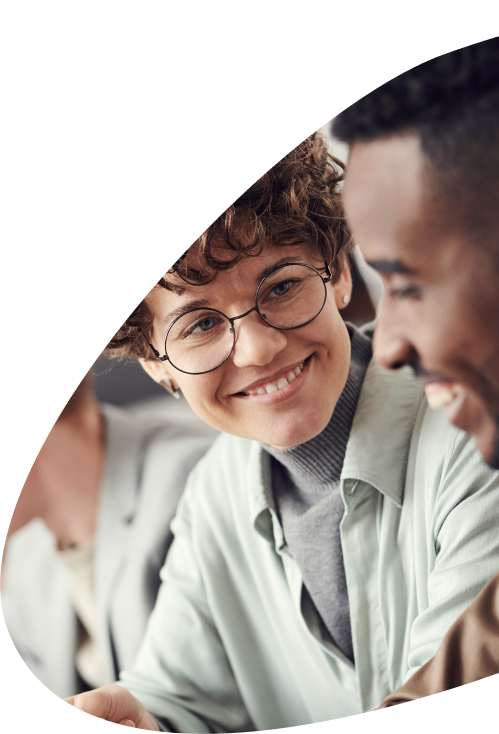
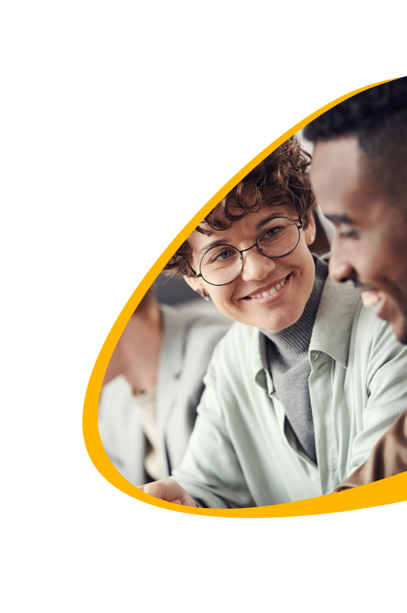
added some images and made the final changes

diff --git a/app/scss/layouts/_hero.scss b/app/scss/layouts/_hero.scss
@@ -1,7 +1,11 @@
 @use 'abstracts' as *;
 
 .hero {
-  height: rem(700);
+  height: rem(890);
+
+  @include desktop {
+    height: rem(700);
+  }
 
   .d-grid {
     height: 100%;
@@ -13,11 +17,12 @@
     margin-inline: auto;
 
     h1 {
+      $fs-300: rem(35);
       font-size: $fs-300;
       font-weight: 700;
       color: var(--white-clr);
-      margin-bottom: rem(30);
-      line-height: 1.5;
+      margin-bottom: rem(16);
+      line-height: 1.3;
 
       @include extra-small {
         font-size: $fs-150;
@@ -25,6 +30,7 @@
 
       @include desktop-md {
         font-size: $fs-350;
+        margin-bottom: rem(30);
       }
 
       @include large {
@@ -62,8 +68,8 @@
 
   &__img {
     background-image: url(../../../img/hero-img.jpg);
-    height: rem(350);
     width: 100%;
+    height: rem(340);
     @include image-property();
   }
 
@@ -82,6 +88,12 @@
     .d-grid {
       @include grid(repeat(2, 1fr), 0);
       place-items: center;
+    }
+  }
+
+  @include large {
+    &__img {
+      transform: translateX(rem(90));
     }
   }
 

diff --git a/index.html b/index.html
@@ -3,6 +3,7 @@
   <head>
     <meta charset="UTF-8" />
     <meta name="viewport" content="width=device-width, initial-scale=1.0" />
+    <link rel="icon" type="image/png" sizes="32x32" href="./img/logo-2.svg" />
     <title>LeDesigner</title>
     <link rel="stylesheet" href="/dist/style.css" />
     <script src="https://kit.fontawesome.com/9acea6f878.js"></script>

diff --git a/app/scss/layouts/_contact.scss b/app/scss/layouts/_contact.scss
@@ -104,9 +104,14 @@
     overflow-x: hidden;
 
     &__img {
-      transform: translateX(rem(80));
-      z-index: -1;
       display: block;
+
+      img {
+        transform: translateX(rem(120));
+        z-index: -1;
+        width: rem(550);
+        background-color: transparent;
+      }
     }
 
     .d-flex {

diff --git a/app/scss/components/_buttons.scss b/app/scss/components/_buttons.scss
@@ -1,12 +1,13 @@
 @use 'abstracts' as *;
 
-// Styles for button
+// general styles for all buttons
 button {
   text-transform: capitalize;
   cursor: pointer;
   border-radius: rem(6);
-  padding: rem(10) rem(20);
+  padding: rem(13) rem(30);
   border: none;
+  font-size: rem(16);
 }
 
 // nav button

diff --git a/app/scss/layouts/_header.scss b/app/scss/layouts/_header.scss
@@ -19,11 +19,12 @@
 
 .toggle-menu {
   border: 0;
-  width: 13%;
   font-size: $fs-150;
   display: inline-block;
   background-color: transparent;
   color: var(--white-clr);
+  padding: 0;
+  padding-right: rem(5);
 
   @include desktop {
     display: none;

diff --git a/app/js/script.js b/app/js/script.js
@@ -38,7 +38,6 @@ const changeActiveLink = (link) => {
 
 // NAV LINKS
 navLinks.forEach(changeActiveLink);
-
 toggle.addEventListener('click', showNav);
 
 // LOAD MORE BUTTON FOR FEATURED SECTION

diff --git a/app/scss/layouts/_services.scss b/app/scss/layouts/_services.scss
@@ -8,7 +8,7 @@
 
     @include large {
       display: block;
-      width: 550px;
+      width: rem(550);
       transform: translateX(rem(-50));
       z-index: -1;
     }

diff --git a/app/scss/layouts/_sponsor.scss b/app/scss/layouts/_sponsor.scss
@@ -3,7 +3,6 @@
 .sponsored {
   .container {
     padding: 0;
-    padding-top: rem(120);
 
     @include desktop {
       padding-top: rem(60);
